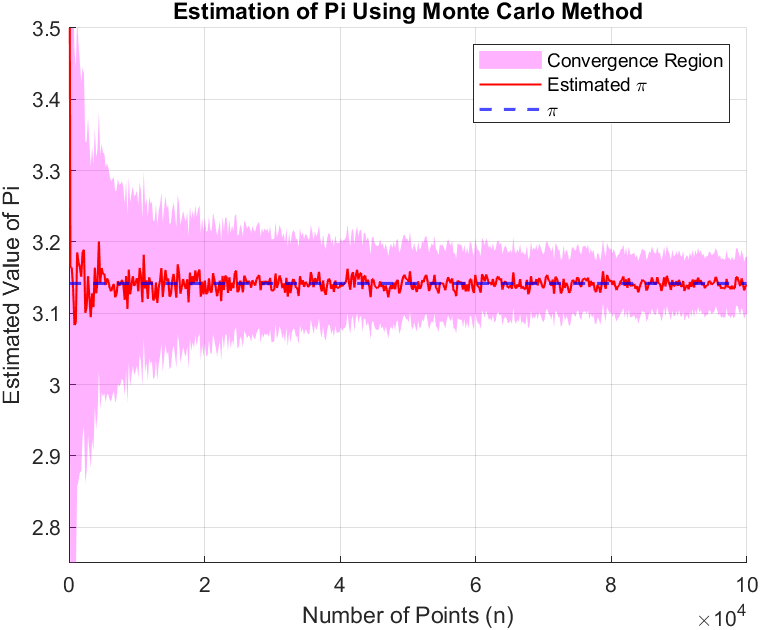
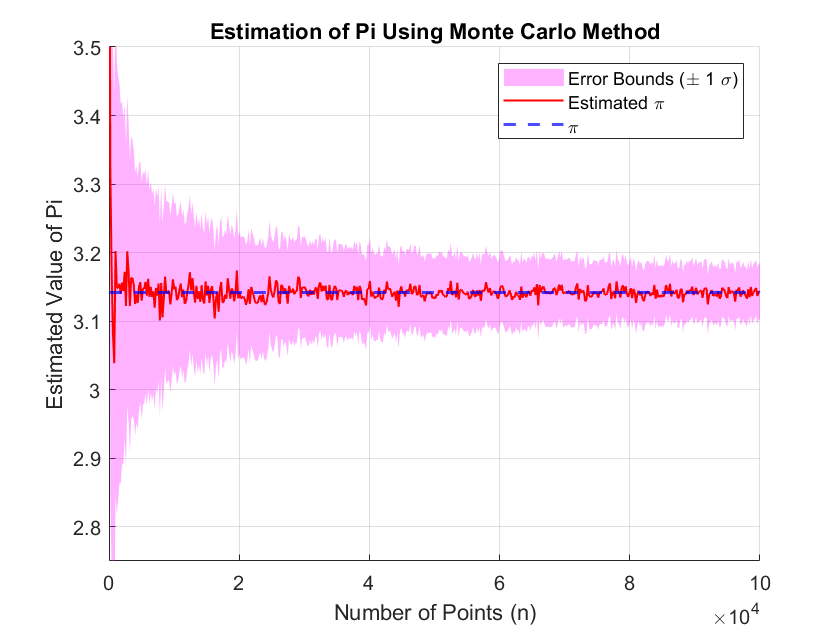
Add files via upload

diff --git a/B1_Numerical_Integration.m b/B1_Numerical_Integration.m
@@ -1,7 +1,7 @@
 close all; clear;
 
 % Define the true value of Pi for comparison
-true_pi = pi;
+true_pi = vpa(pi);
 
 % Define the maximum number of intervals for the trapezoidal rule
 max_n = 1000; % You can adjust this value for more steps
@@ -31,11 +31,12 @@ figure;
 subplot(2, 1, 1); % Create a subplot for the estimates
 plot(n_values, pi_estimates, 'r-', 'LineWidth', 2);
 hold on;
-yline(true_pi, 'b--', 'LineWidth', 1.5); % True value of Pi for reference
+yline(pi, 'b--', 'LineWidth', 1.5); % True value of Pi for reference
 xlabel('Number of Intervals (n)');
 ylabel('Estimated Value of Pi');
 title('Estimation of Pi Using Trapezoidal Integration');
-legend('Estimated Pi', '\pi');
+legend('Estimated Pi', '\pi', 'Location', 'best');
+ylim([0, 3.5])
 grid on;
 
 % Plot the error
@@ -48,4 +49,5 @@ grid on;
 
 % Display the final estimated value of Pi and its error
 fprintf('Final estimated value of Pi: %.10f\n', pi_estimates(end));
-fprintf('Final absolute error: %.10f\n', errors(end));
+fprintf('Final absolute error: %+.6e\n', errors(end));
+fprintf('Final variance: %+.6e\n', var(pi_estimates));

diff --git a/B1_Monte_Carlo.m b/B1_Monte_Carlo.m
@@ -55,8 +55,9 @@ yline(pi, 'b--', 'LineWidth', 1.5); % Actual value of Pi
 xlabel('Number of Points (n)');
 ylabel('Estimated Value of Pi');
 title('Estimation of Pi Using Monte Carlo Method');
-legend('Convergence Region', 'Estimated \pi', '\pi');
+legend('Error Bounds (\pm 1 \sigma)', 'Estimated \pi', '\pi');
 grid on;
 ylim([2.75, 3.5]);
 hold off;
-
+fprintf('Final absolute error: %+.6e\n', errors(end));
+fprintf('Final variance: %+.6e\n', var(pi_estimates));

diff --git a/B14_Image_analysis.m b/B14_Image_analysis.m
@@ -1,0 +1,17 @@
+
+sigma = 1;
+len = 9;
+
+arr = zeros(1,len);
+for i = 1:len
+    idx = i - ceil(len/2);
+    arr(1,i) = 1/sqrt(2*pi*sigma^2)*exp(-(idx^2)/(2*sigma^2));
+end
+disp(arr)
+disp(sum(arr))
+
+
+f = [0.004 0.054 0.242 0.399 0.242 0.054 0.004];
+i = [46 45 45 48 50 53 55 57 77 99 118 130 133 134 133 132 132 132 133];
+
+disp(conv(i,f, 'same'))

diff --git a/B1_Newton_Raphson.m b/B1_Newton_Raphson.m
@@ -71,3 +71,5 @@ xticks(0:iter-1); % Set x-ticks to integer iterations
 % Display the final result
 fprintf('Estimated value of Pi: %.10f\n', x1);
 fprintf('Number of iterations: %d\n', iter-1); % Display total iterations
+fprintf('Final absolute error: %+.6e\n', absolute_errors(end));
+fprintf('Final variance: %+.6e\n', var(estimates));
